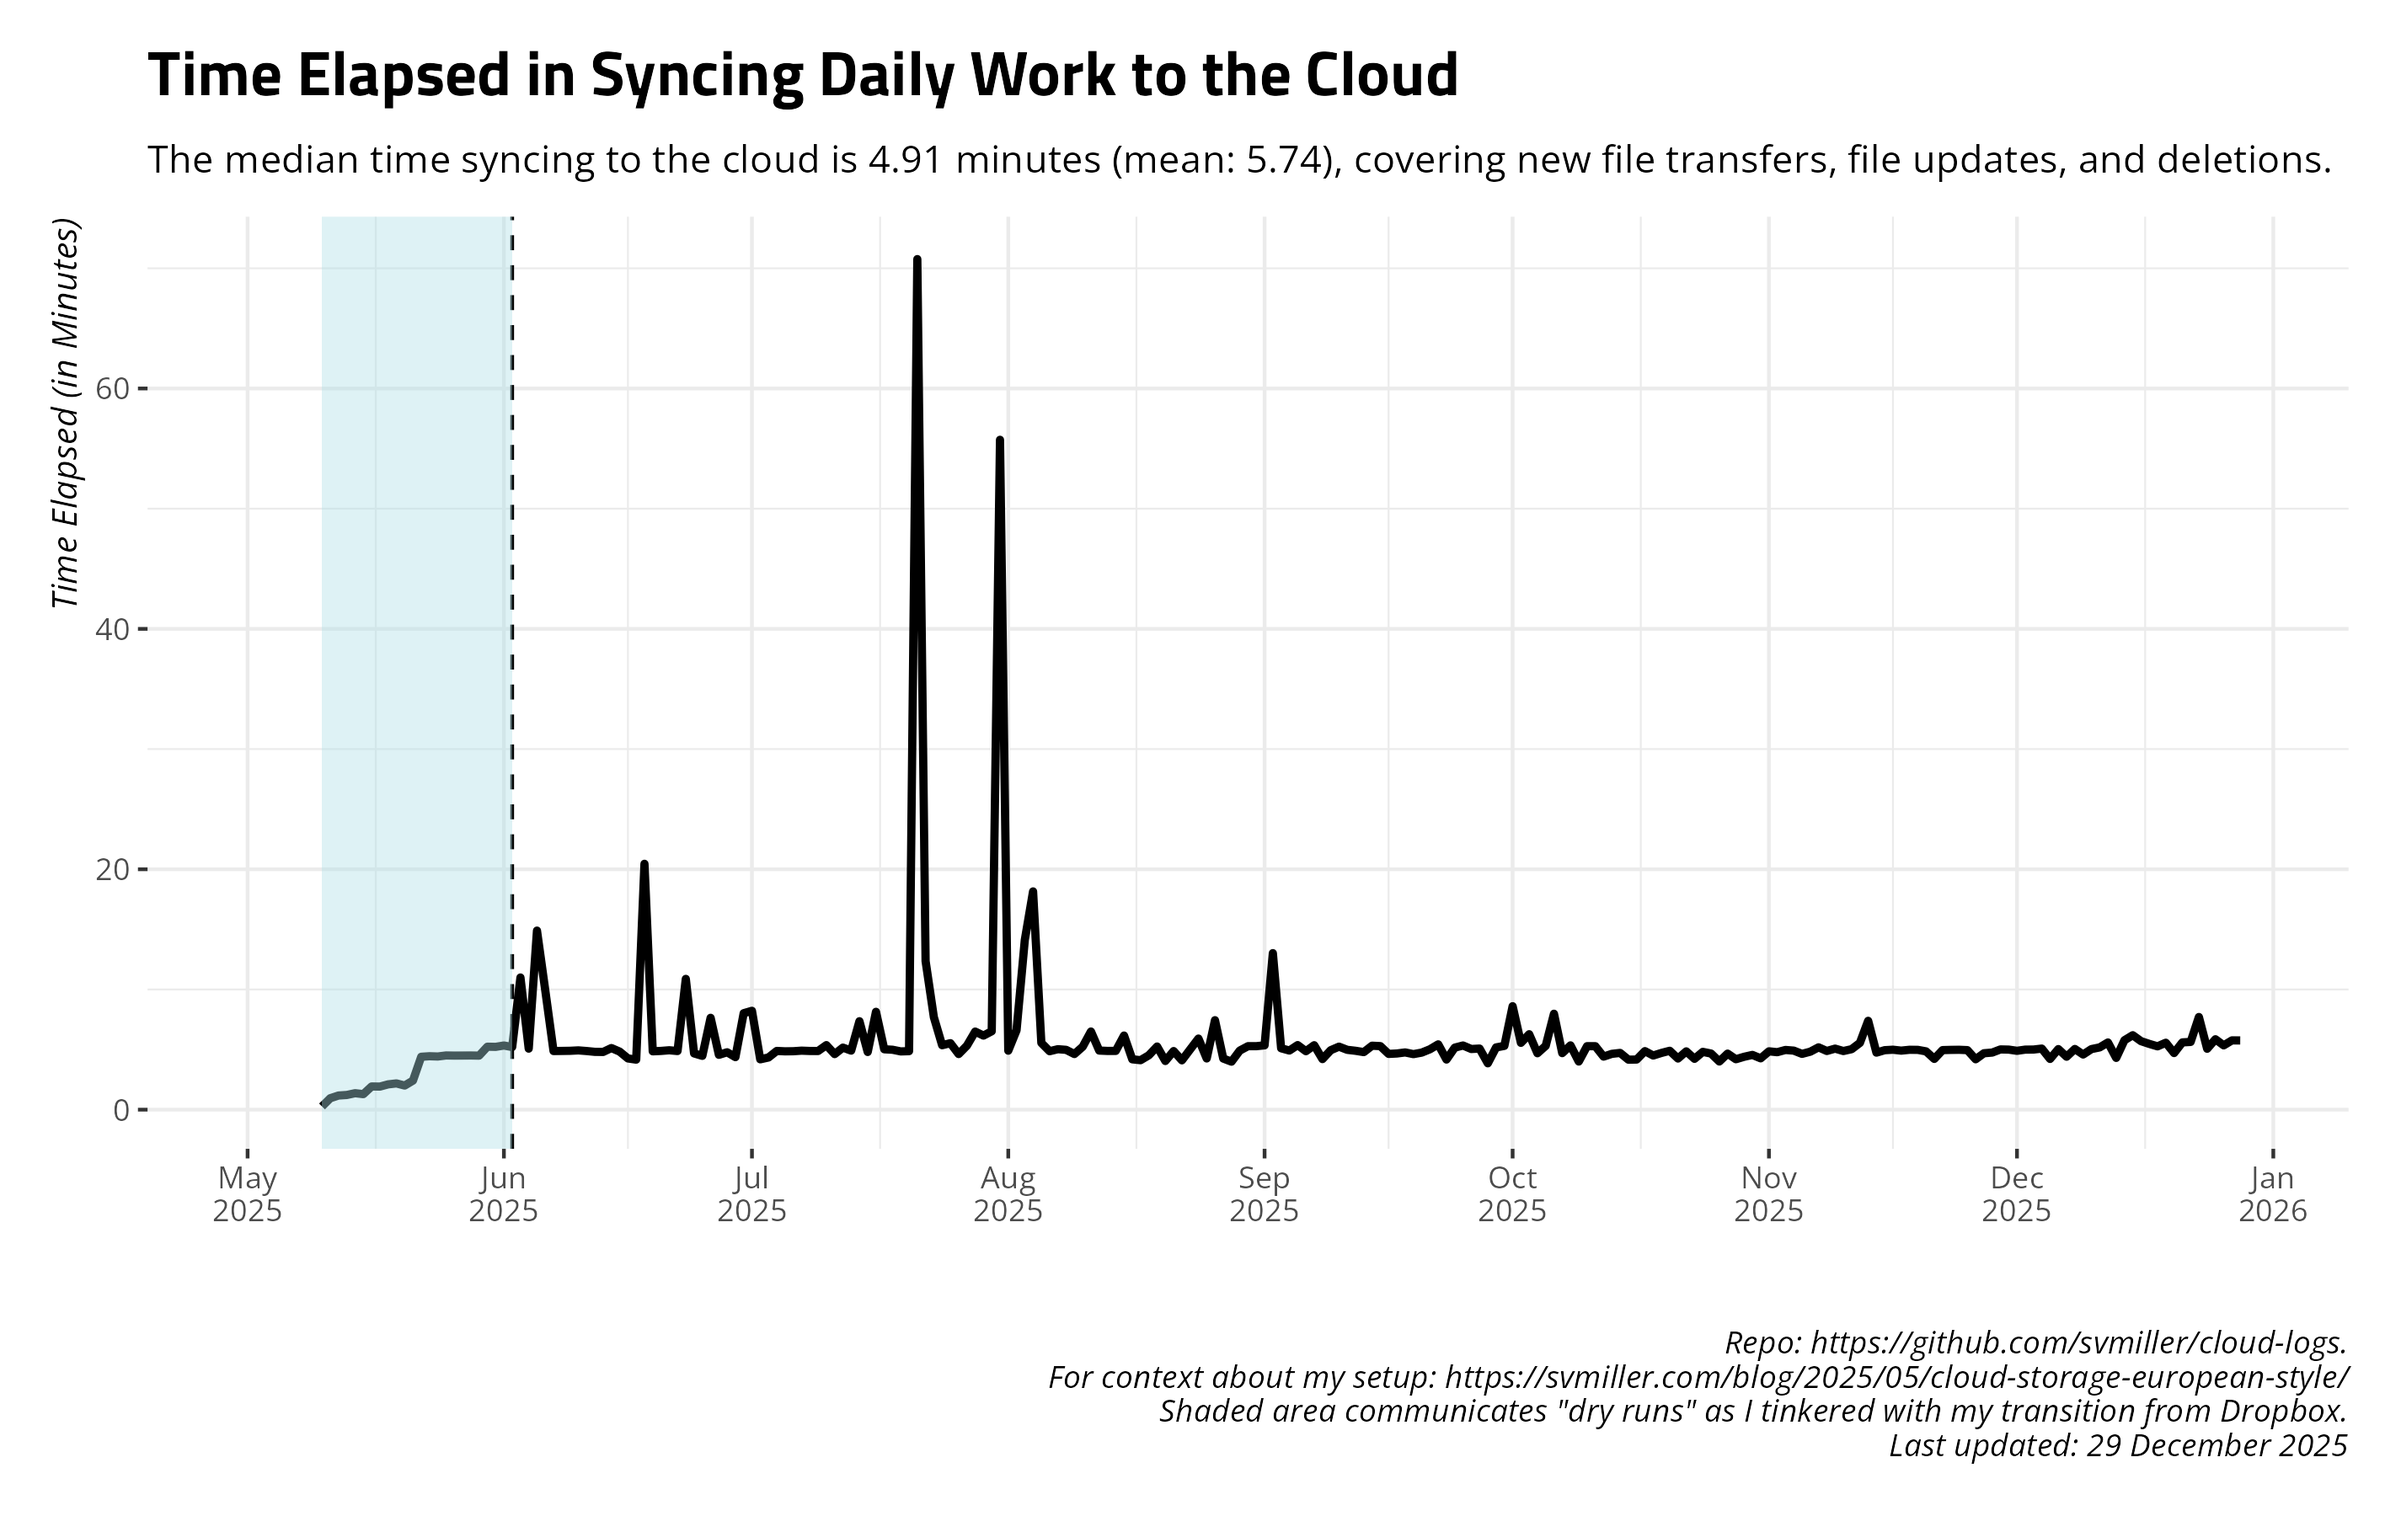
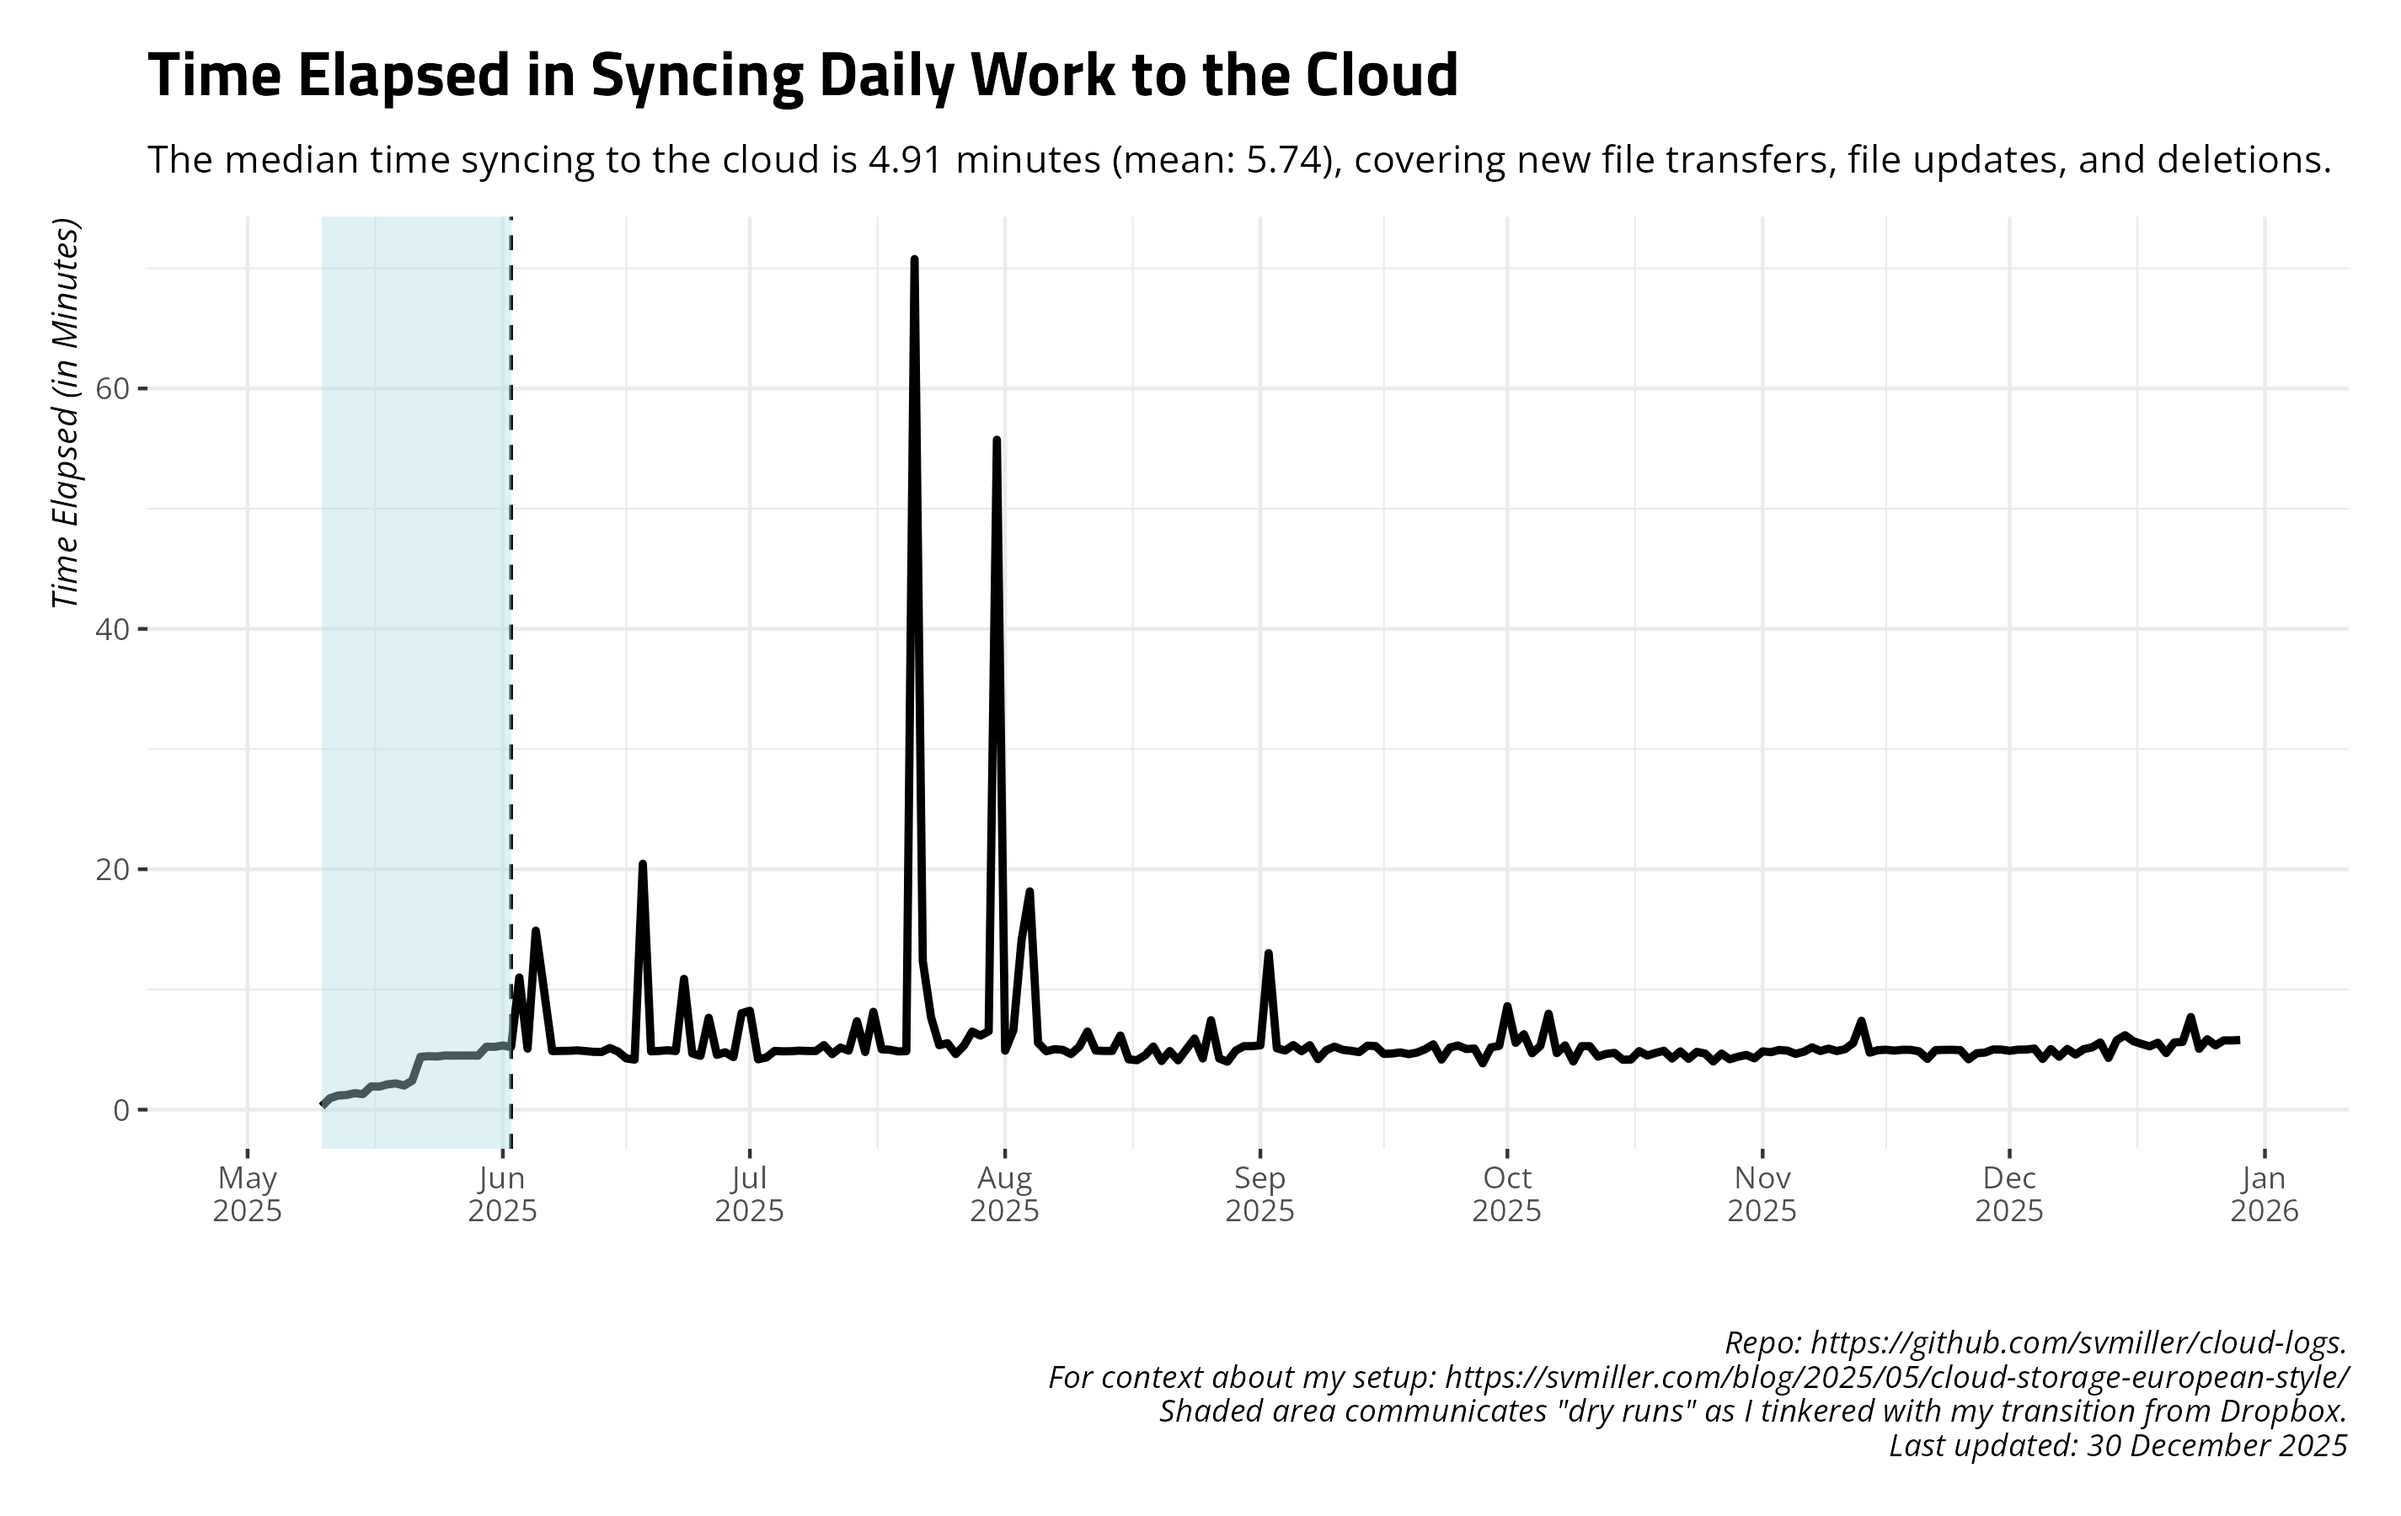
Date: 2025-12-30 09:00:20. Hi mom!

diff --git a/README.md b/README.md
@@ -27,17 +27,17 @@ and uploads to Github.
     #> # A tibble: 14 × 4
     #>    date       ftransfer stransfer   elapsed
     #>    <date>         <dbl> <chr>       <chr>  
-    #>  1 2025-12-15       142 5.094 MiB   6m11.7s
-    #>  2 2025-12-16        46 44.976 MiB  5m42.0s
-    #>  3 2025-12-17        44 26.853 MiB  5m28.3s
-    #>  4 2025-12-18        18 2.161 MiB   5m16.1s
-    #>  5 2025-12-19        10 2.981 MiB   5m34.2s
-    #>  6 2025-12-20        32 42.314 MiB  4m42.6s
-    #>  7 2025-12-21        32 35.283 MiB  5m35.8s
-    #>  8 2025-12-22        12 50.685 KiB  5m38.1s
-    #>  9 2025-12-23        54 241.235 KiB 7m42.6s
-    #> 10 2025-12-24        50 103.702 KiB 5m3.9s 
-    #> 11 2025-12-25         1 52.710 KiB  5m51.5s
-    #> 12 2025-12-26        12 50.808 KiB  5m20.9s
-    #> 13 2025-12-27         0 <NA>        5m45.8s
-    #> 14 2025-12-28         0 <NA>        5m45.5s
+    #>  1 2025-12-16        46 44.976 MiB  5m42.0s
+    #>  2 2025-12-17        44 26.853 MiB  5m28.3s
+    #>  3 2025-12-18        18 2.161 MiB   5m16.1s
+    #>  4 2025-12-19        10 2.981 MiB   5m34.2s
+    #>  5 2025-12-20        32 42.314 MiB  4m42.6s
+    #>  6 2025-12-21        32 35.283 MiB  5m35.8s
+    #>  7 2025-12-22        12 50.685 KiB  5m38.1s
+    #>  8 2025-12-23        54 241.235 KiB 7m42.6s
+    #>  9 2025-12-24        50 103.702 KiB 5m3.9s 
+    #> 10 2025-12-25         1 52.710 KiB  5m51.5s
+    #> 11 2025-12-26        12 50.808 KiB  5m20.9s
+    #> 12 2025-12-27         0 <NA>        5m45.8s
+    #> 13 2025-12-28         0 <NA>        5m45.5s
+    #> 14 2025-12-29         2 380.681 KiB 5m47.9s
